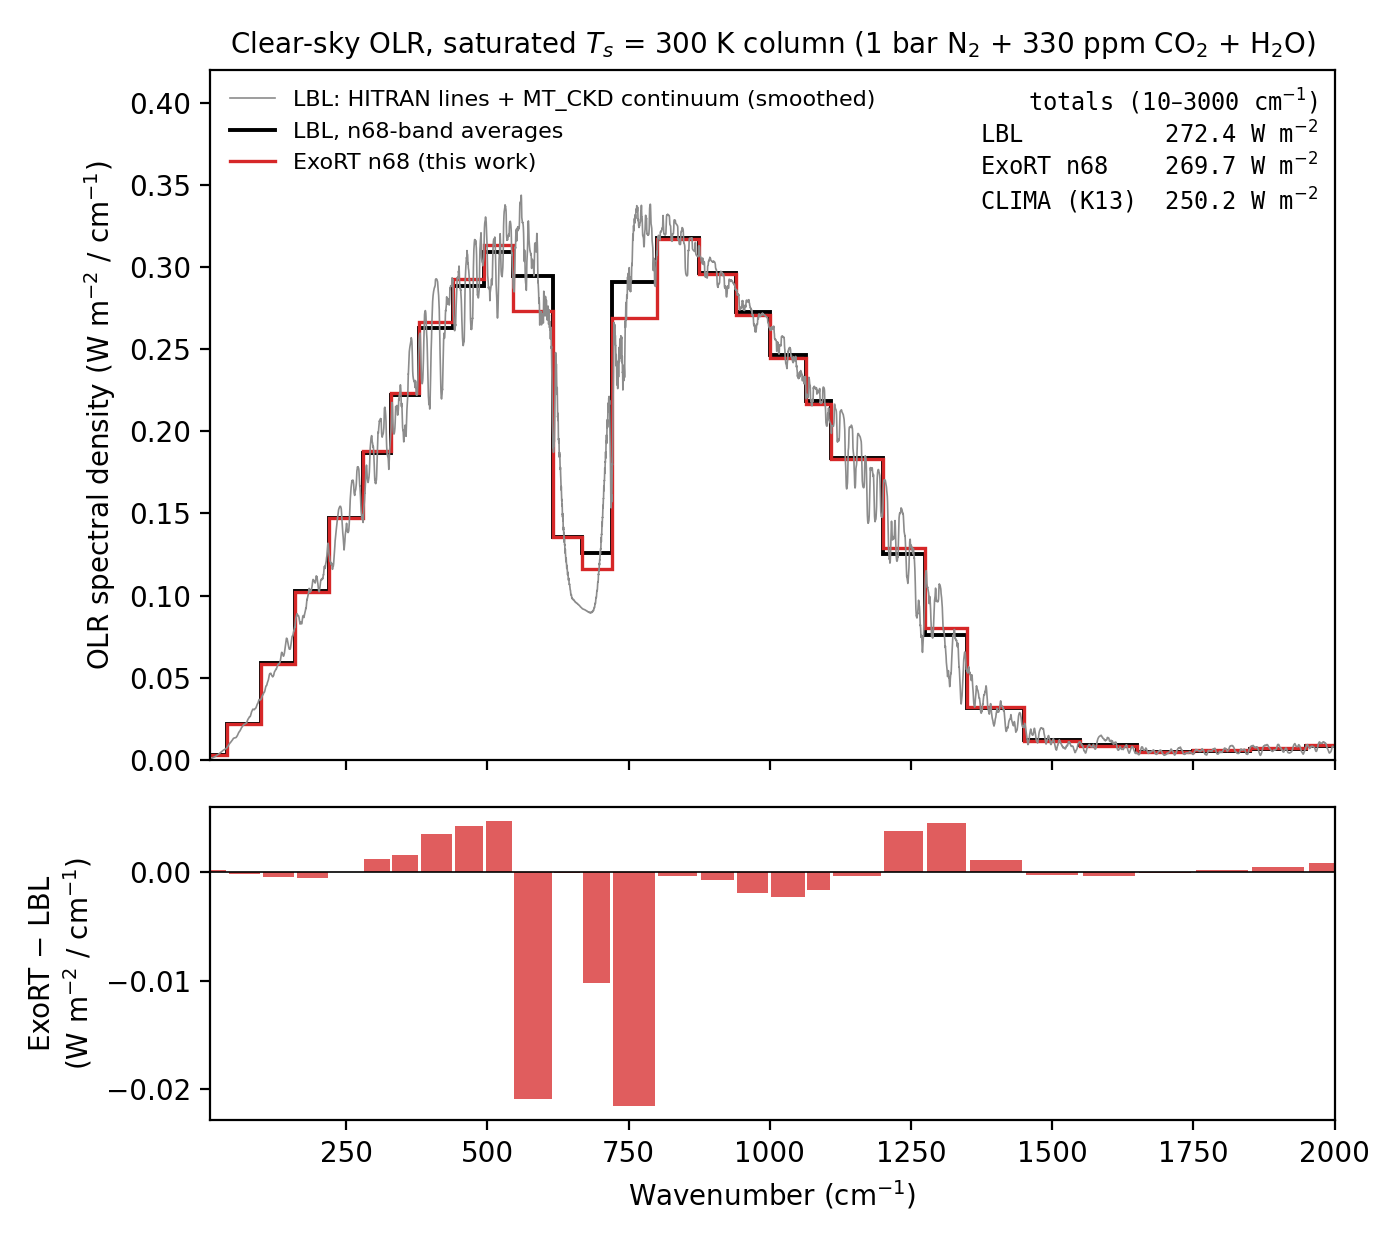
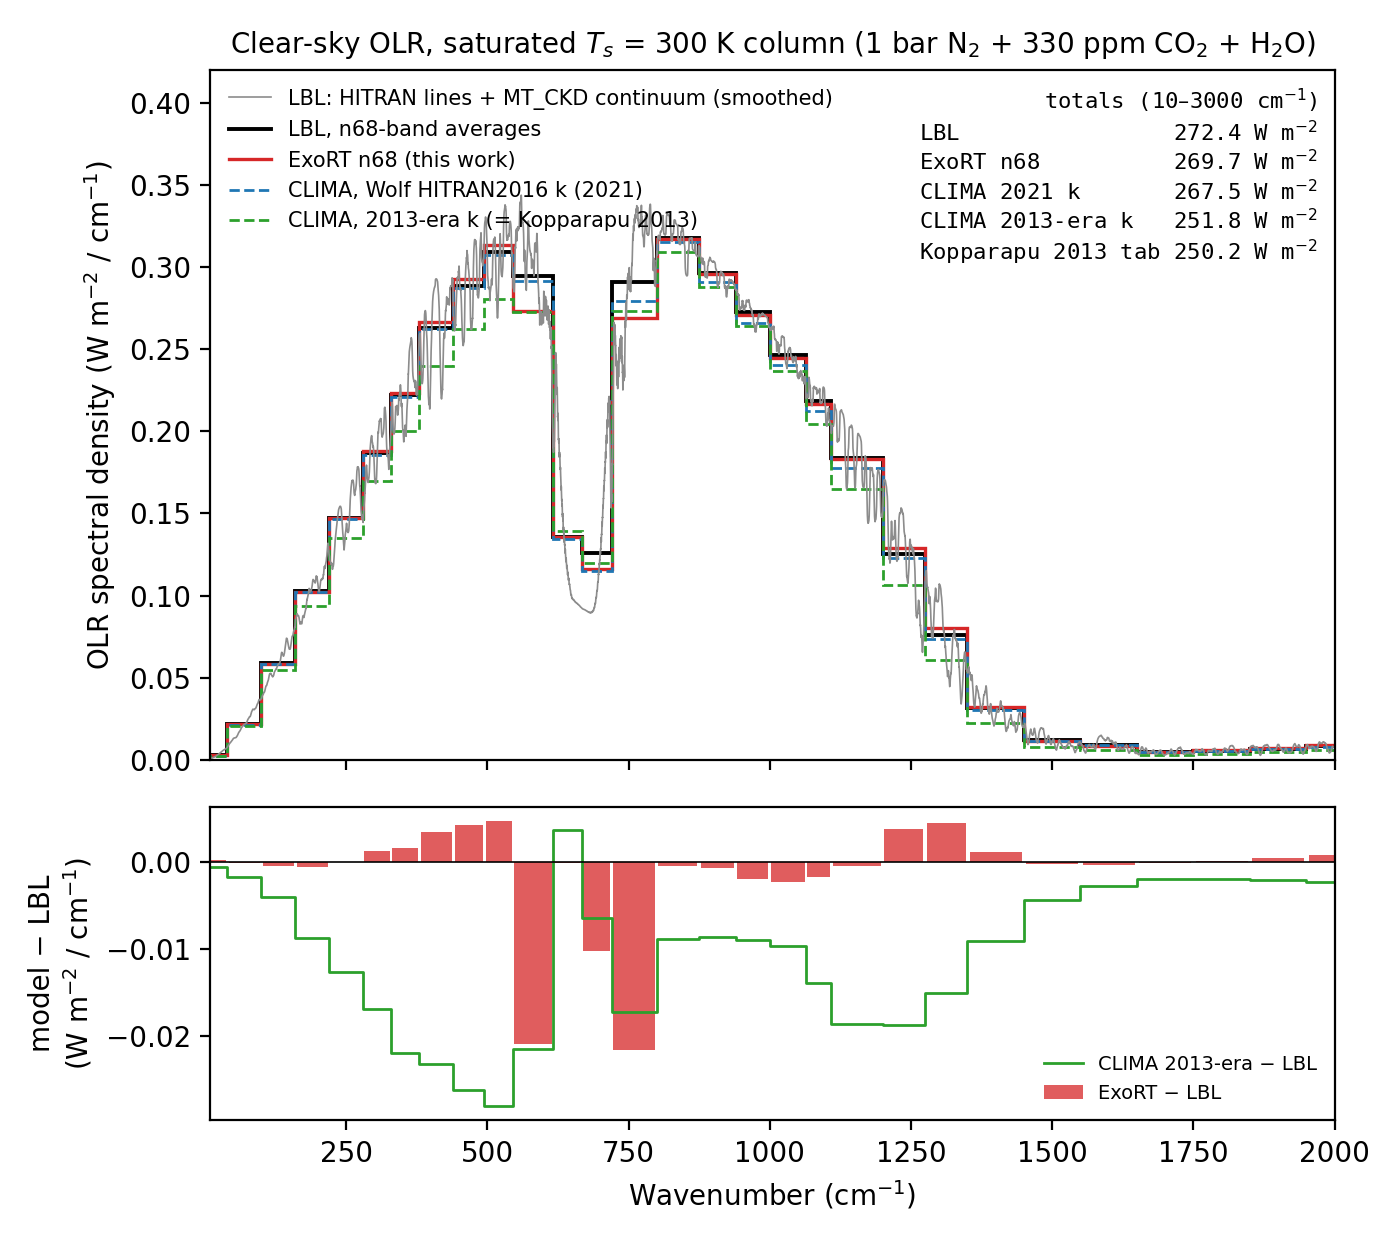
CLIMA curves on the LBL OLR benchmark: 2013-era k reproduces Kopparapu (251.8 vs 250.2); the 2021 Wolf-HITRAN2016 update moves CLIMA 16 W/m2 toward the LBL
Ran the public atmos CLIMA (built at /models/atmos with gfortran; inverse
water-loss configuration) on the matched saturated Ts=300 K column.  The
reproduced profile matches Kopparapu's clima_last.tab 300 K block to
dT < 0.35 K with the same ND=101 grid and the same cold-trap level
(0.12835 bar).  A 4-line patch to CLIMA/RADTRANS/ir.f exports the
55-interval TOA OLR (tools/clima_band_olr_ts300.txt):

  CLIMA, 2013-era k-coefficients   251.8 W/m2  (Kopparapu tab: 250.2 -> the
                                   2013 configuration positively identified)
  CLIMA, Wolf HITRAN2016 k (2021)  267.5 W/m2  (atmos commit 54934f6)
  ExoRT n68                        269.7 W/m2
  LBL (HITRAN + MT_CKD)            272.4 W/m2

The opacity-data swap alone accounts for 16 of the 22 W/m2 CLIMA-2013-vs-LBL
gap; spectrally the 2013-era deficit is a broad depression across the whole
H2O rotation band + window (~150-1300 cm-1).  The CLIMA maintainers
themselves superseded the 2013 opacities in 2021 with HELIOS-K/HITRAN2016
k-tables computed by E. Wolf — the same lineage as ExoRT's.  Both CLIMA
generations are overlaid on tools/lbl_olr_benchmark_ts300.png.

diff --git a/tools/plot_lbl_benchmarks.py b/tools/plot_lbl_benchmarks.py
@@ -33,6 +33,11 @@ def plot_lw():
             lbl_b[i] = np.trapezoid(oc[m], wn[m])
     w_b = np.diff(edges)
 
+    # CLIMA band OLR on the matched column (both k-coefficient generations,
+    # computed with the patched /models/atmos ir.f — see the data file header)
+    clima_path = os.path.join(HERE, 'clima_band_olr_ts300.txt')
+    clima = np.loadtxt(clima_path) if os.path.isfile(clima_path) else None
+
     fig, ax = plt.subplots(2, 1, figsize=(7.0, 6.2), dpi=300,
                            height_ratios=[2.2, 1], sharex=True)
     fig.patch.set_facecolor('white')
@@ -43,26 +48,47 @@ def plot_lw():
            label='LBL: HITRAN lines + MT_CKD continuum (smoothed)')
     a.stairs(lbl_b / w_b, edges, color='k', lw=1.4, label='LBL, n68-band averages')
     a.stairs(exo / w_b, edges, color='C3', lw=1.2, label='ExoRT n68 (this work)')
+    totals = ('totals (10–3000 cm$^{-1}$)\n'
+              'LBL                272.4 W m$^{-2}$\n'
+              'ExoRT n68          269.7 W m$^{-2}$')
+    if clima is not None:
+        ce = np.append(clima[:, 0], clima[-1, 1])
+        cw = np.diff(ce)
+        a.stairs(clima[:, 3] / cw, ce, color='C0', lw=1.0, ls='--',
+                 label='CLIMA, Wolf HITRAN2016 k (2021)')
+        a.stairs(clima[:, 2] / cw, ce, color='C2', lw=1.0, ls='--',
+                 label='CLIMA, 2013-era k (= Kopparapu 2013)')
+        totals += (f'\nCLIMA 2021 k       {clima[:,3].sum():.1f} W m$^{{-2}}$'
+                   f'\nCLIMA 2013-era k   {clima[:,2].sum():.1f} W m$^{{-2}}$'
+                   '\nKopparapu 2013 tab 250.2 W m$^{-2}$')
     a.set_ylabel('OLR spectral density (W m$^{-2}$ / cm$^{-1}$)')
     a.set_xlim(10, 2000)
     a.set_ylim(0, 0.42)
-    a.legend(loc='upper left', fontsize=8, frameon=False)
+    a.legend(loc='upper left', fontsize=7.5, frameon=False)
     a.set_title(f'Clear-sky OLR, saturated $T_s$ = {ts:.0f} K column '
                 '(1 bar N$_2$ + 330 ppm CO$_2$ + H$_2$O)', fontsize=10)
-    a.text(0.985, 0.975,
-           'totals (10–3000 cm$^{-1}$)\n'
-           'LBL          272.4 W m$^{-2}$\n'
-           'ExoRT n68    269.7 W m$^{-2}$\n'
-           'CLIMA (K13)  250.2 W m$^{-2}$',
-           transform=a.transAxes, ha='right', va='top', fontsize=8.5,
-           family='monospace')
+    a.text(0.985, 0.975, totals, transform=a.transAxes, ha='right', va='top',
+           fontsize=8, family='monospace')
     a.set_facecolor('white')
 
     b = ax[1]
     ctr = 0.5 * (edges[:-1] + edges[1:])
-    b.bar(ctr, (exo - lbl_b) / w_b, width=w_b * 0.92, color='C3', alpha=0.75)
+    b.bar(ctr, (exo - lbl_b) / w_b, width=w_b * 0.92, color='C3', alpha=0.75,
+          label='ExoRT − LBL')
+    if clima is not None:
+        # CLIMA(2013-era) − LBL on the common 55-interval grid
+        lbl_c = np.full(len(cw), np.nan)
+        for i in range(len(cw)):
+            m = (wn >= ce[i]) & (wn < ce[i + 1])
+            if m.sum() > 2:
+                lbl_c[i] = np.trapezoid(oc[m], wn[m])
+        cctr = 0.5 * (ce[:-1] + ce[1:])
+        b.step(np.append(ce[0], ce[1:]), np.append((clima[:, 2] - lbl_c) / cw,
+               np.nan), where='post', color='C2', lw=1.0,
+               label='CLIMA 2013-era − LBL')
+        b.legend(fontsize=7, frameon=False, loc='lower right')
     b.axhline(0, color='k', lw=0.6)
-    b.set_ylabel('ExoRT − LBL\n(W m$^{-2}$ / cm$^{-1}$)')
+    b.set_ylabel('model − LBL\n(W m$^{-2}$ / cm$^{-1}$)')
     b.set_xlabel('Wavenumber (cm$^{-1}$)')
     b.set_facecolor('white')
     fig.tight_layout()

diff --git a/reference/moist_runaway/README.md b/reference/moist_runaway/README.md
@@ -194,7 +194,22 @@ Configuration).
   ExoRT deficiency** — consistent with Yang et al. (2016), where the ExoRT
   lineage (CAM4_Wolf) tracks the SMART LBL while band models spread
   10–25 W/m², and with Kopparapu's ≈1420 W/m² runaway threshold vs
-  Goldblatt/SMART's ≈1340.  LBL caveats (all ≲ 1 W/m² here): no N₂–N₂ CIA,
+  Goldblatt/SMART's ≈1340.
+  **Confirmed by running CLIMA itself (2026-06-12):** the public `atmos`
+  CLIMA (built at `/models/atmos`, inverse mode, reproducing Kopparapu's
+  tabulated 300 K column to ΔT < 0.35 K and the same grid/cold-trap level)
+  gives, through the *same* `ir.f` radiation: **251.8 W/m²** with the
+  2013-era k-coefficients (`NEWHITRAN_ir_55_H2O` + `Ramses_HITRAN_ir_55_CO2`
+  — matching Kopparapu's 250.2 to 0.6%, i.e. the 2013 configuration is
+  positively identified) and **267.5 W/m²** with the Wolf HITRAN2016
+  k-coefficients that the CLIMA maintainers adopted in 2021 (commit
+  `54934f6`, computed by E. Wolf with HELIOS-K).  The opacity-data swap
+  alone moves CLIMA 16 of the 22 W/m² toward the LBL; spectrally
+  (`tools/clima_band_olr_ts300.txt`, overlaid on the benchmark figure) the
+  2013-era deficit is a broad depression across the entire H₂O rotation
+  band and window (~150–1300 cm⁻¹), not a localized feature.  I.e. **the
+  community that maintains CLIMA has itself superseded the 2013 opacities
+  — with k-tables from the same lineage as ExoRT's.**  LBL caveats (all ≲ 1 W/m² here): no N₂–N₂ CIA,
   air- (not N₂-) broadened widths, no CO₂ χ-factors at 330 ppm.  This
   reframes the moist-GH `Seff` gap: ~60 % of it (the OLR ratio 1.047 at
   340 K) is CLIMA's LW opacity bias, the rest the SW/albedo offset (ASR
